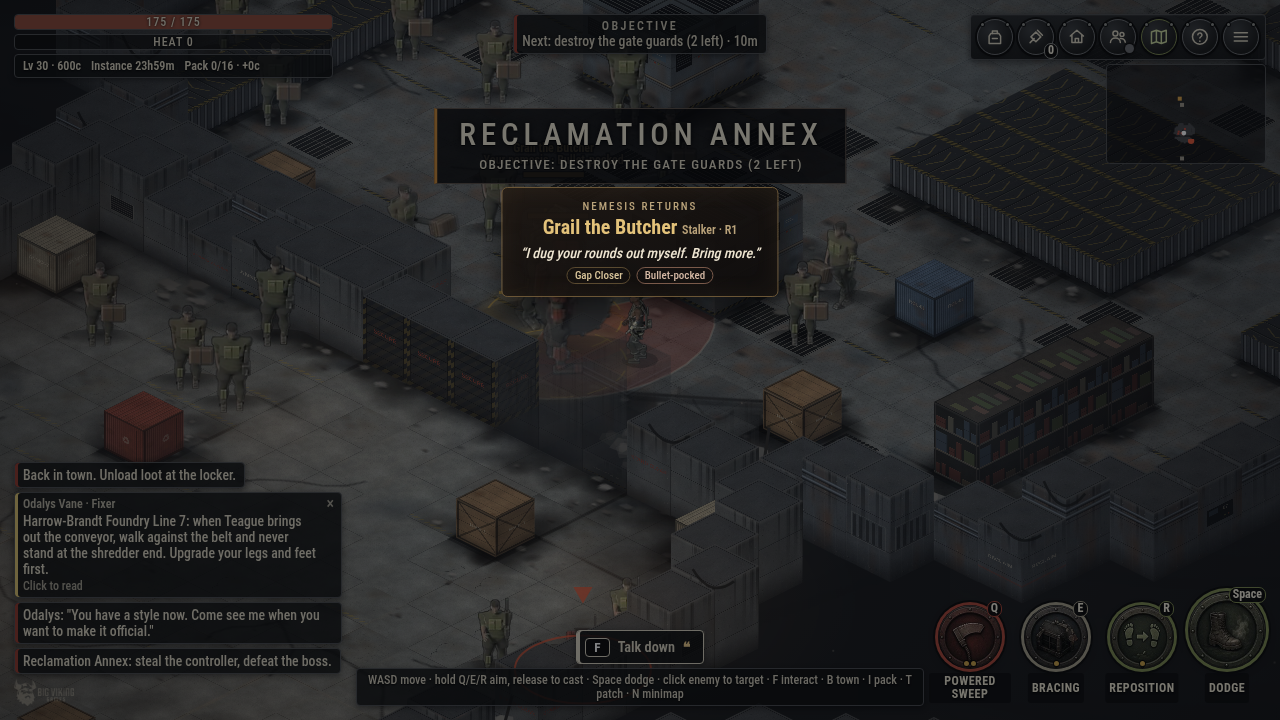
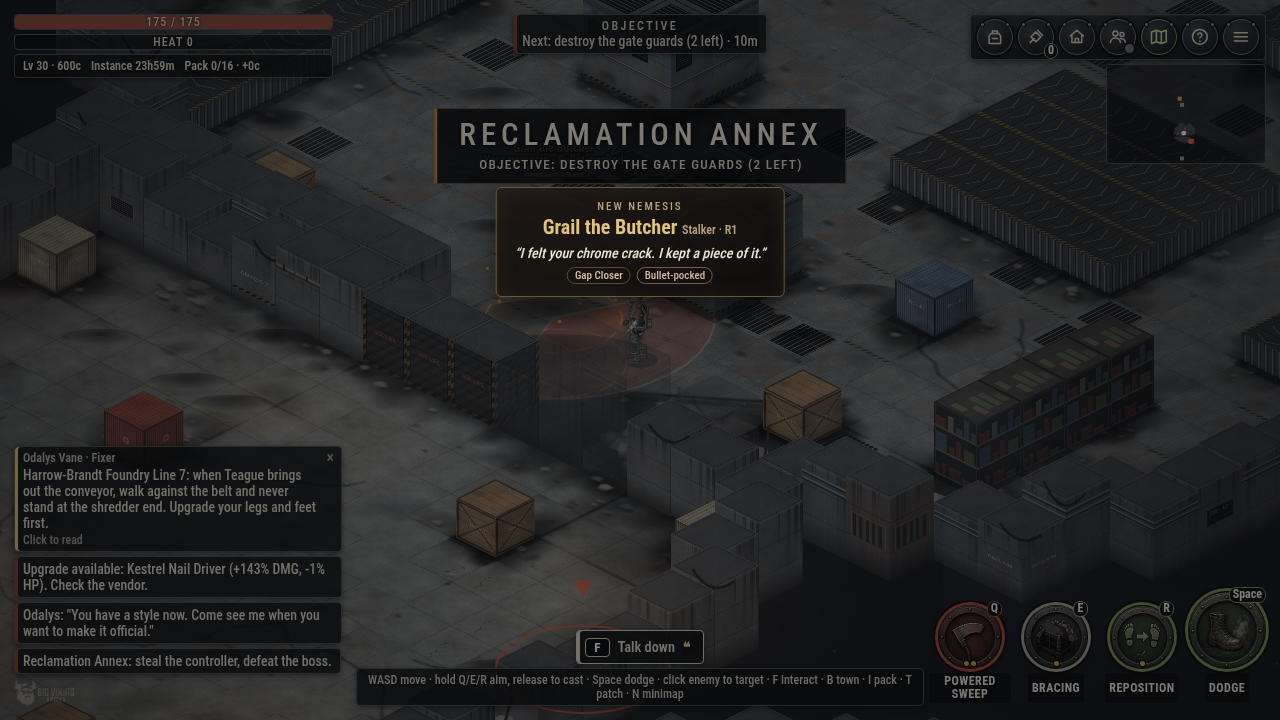
City memory: read lost limbs from src/limbs.ts (slot-keyed record; hands->arm, feet->leg taunts)

diff --git a/src/nemesis.ts b/src/nemesis.ts
@@ -79,10 +79,11 @@ export function applyWords(rec: NemRec, w: any): boolean { if (!w || typeof w !=
   rec.words = 'ai'; void any; return true; }
 
 // ---------- reading the player (deterministic; words + scars only) ----------
-/** Taunt key for what this nemesis noticed about you. Limb losses win (read from the save; any limb system can fill s.limbs.lost = ['armL', ...]), then the strongest profile signal, then damage type. */
-export function readKey(p: Profile, lost: string[] = []): string { const l = lost.find(x => /arm|leg/i.test(x)); if (l) return /arm/i.test(l) ? 'limb_arm' : 'limb_leg';
+/** Taunt key for what this nemesis noticed about you. Limb losses win (read from the save; src/limbs.ts save.limbs.lost), then the strongest profile signal, then damage type. */
+export function readKey(p: Profile, lost: string[] = []): string { const l = lost.find(x => /arm|hand|leg|foot|feet/i.test(x)); if (l) return /arm|hand/i.test(l) ? 'limb_arm' : 'limb_leg';
   if (p.hack >= .3) return 'build_hack'; if (p.burst >= .5) return 'build_burst'; if (p.kite >= .5) return 'build_kite'; return 'build_' + (DMG_TYPES.includes(p.main) ? p.main : 'kinetic'); }
-export const lostLimbs = (s: any): string[] => { const L = s?.limbs?.lost ?? s?.lostLimbs; return Array.isArray(L) ? L.filter((x: any) => typeof x === 'string').slice(0, 4) : []; };
+/** Lost limb slots from src/limbs.ts (save.limbs.lost is a slot-keyed record); arrays also accepted. */
+export const lostLimbs = (s: any): string[] => { const L = s?.limbs?.lost; const a = Array.isArray(L) ? L : L && typeof L === 'object' ? Object.keys(L).filter(k => L[k]) : []; return a.filter((x: any) => typeof x === 'string').slice(0, 6); };
 export function addScar(n: NemRec, t: DmgType) { const sc = (n.scars ||= []); if (!sc.includes(t) && sc.length < NEM_CFG.maxScars) sc.push(t); }
 export const scarText = (n: NemRec) => (n.scars || []).filter(x => x in SCARS).map(x => SCARS[x].name).join(', ');
 /** The line it says when it finds you again: what it read about you, else the generic return lines. */
